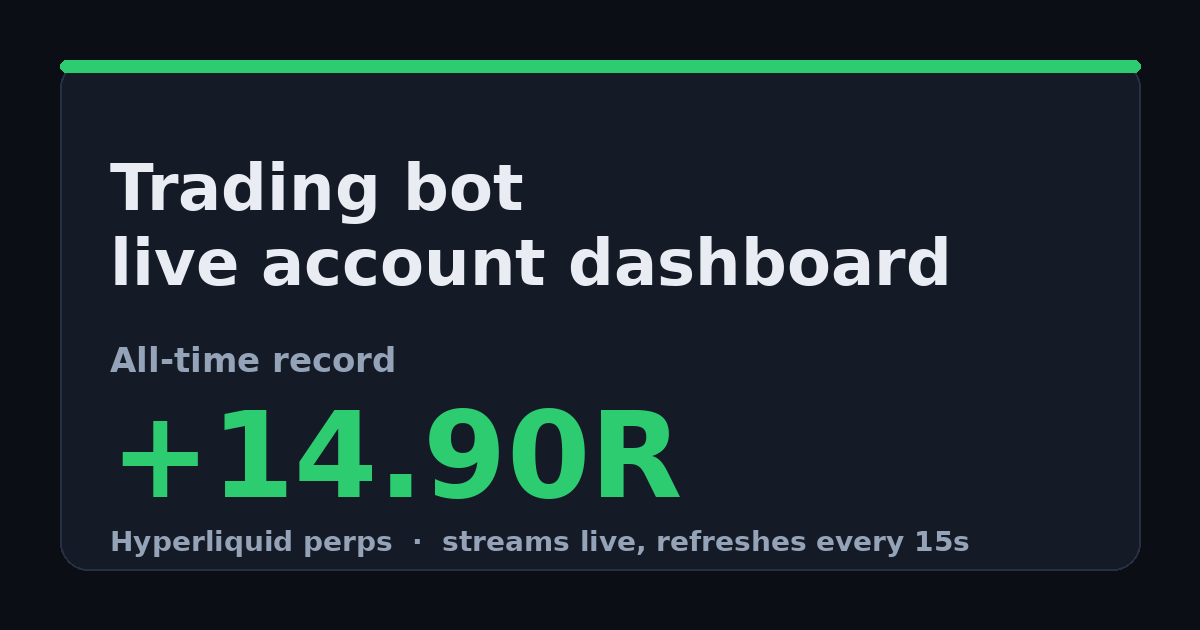
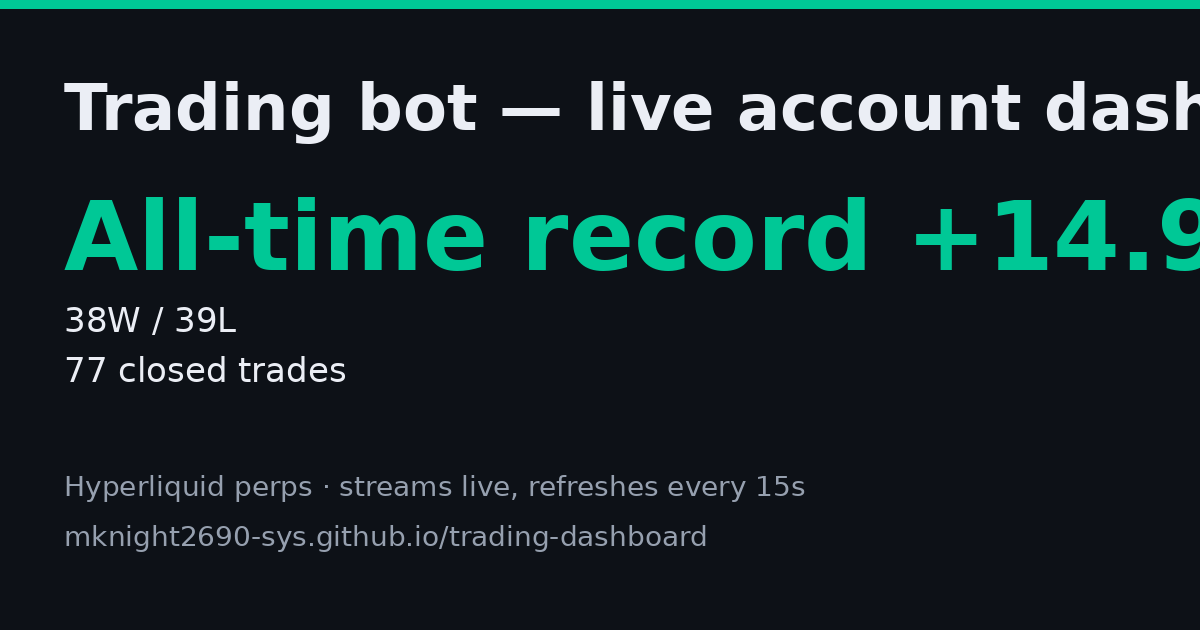
Update dashboard link preview: All-time record +14.97R, 38W/39L, 77 trades

diff --git a/index.html b/index.html
@@ -8,14 +8,14 @@
 <title>Trading Dashboard</title>
 <meta property="og:type" content="website" />
 <meta property="og:title" content="Trading bot — live account dashboard" />
-<meta property="og:description" content="Live Hyperliquid account the trading bot trades on. All-time record +14.90R. Streams live and refreshes every 15 seconds." />
+<meta property="og:description" content="Live Hyperliquid account the trading bot trades on. All-time record +14.97R (38W / 39L, 77 trades). Streams live and refreshes every 15 seconds." />
 <meta property="og:url" content="https://mknight2690-sys.github.io/trading-dashboard/" />
 <meta property="og:image" content="https://mknight2690-sys.github.io/trading-dashboard/preview.png" />
 <meta property="og:image:width" content="1200" />
 <meta property="og:image:height" content="630" />
 <meta name="twitter:card" content="summary_large_image" />
 <meta name="twitter:title" content="Trading bot — live account dashboard" />
-<meta name="twitter:description" content="Live Hyperliquid account the trading bot trades on. All-time record +14.90R. Streams live and refreshes every 15 seconds." />
+<meta name="twitter:description" content="Live Hyperliquid account the trading bot trades on. All-time record +14.97R (38W / 39L, 77 trades). Streams live and refreshes every 15 seconds." />
 <meta name="twitter:image" content="https://mknight2690-sys.github.io/trading-dashboard/preview.png" />
 <link rel="preconnect" href="https://fonts.googleapis.com" />
 <link rel="preconnect" href="https://fonts.gstatic.com" crossorigin />
